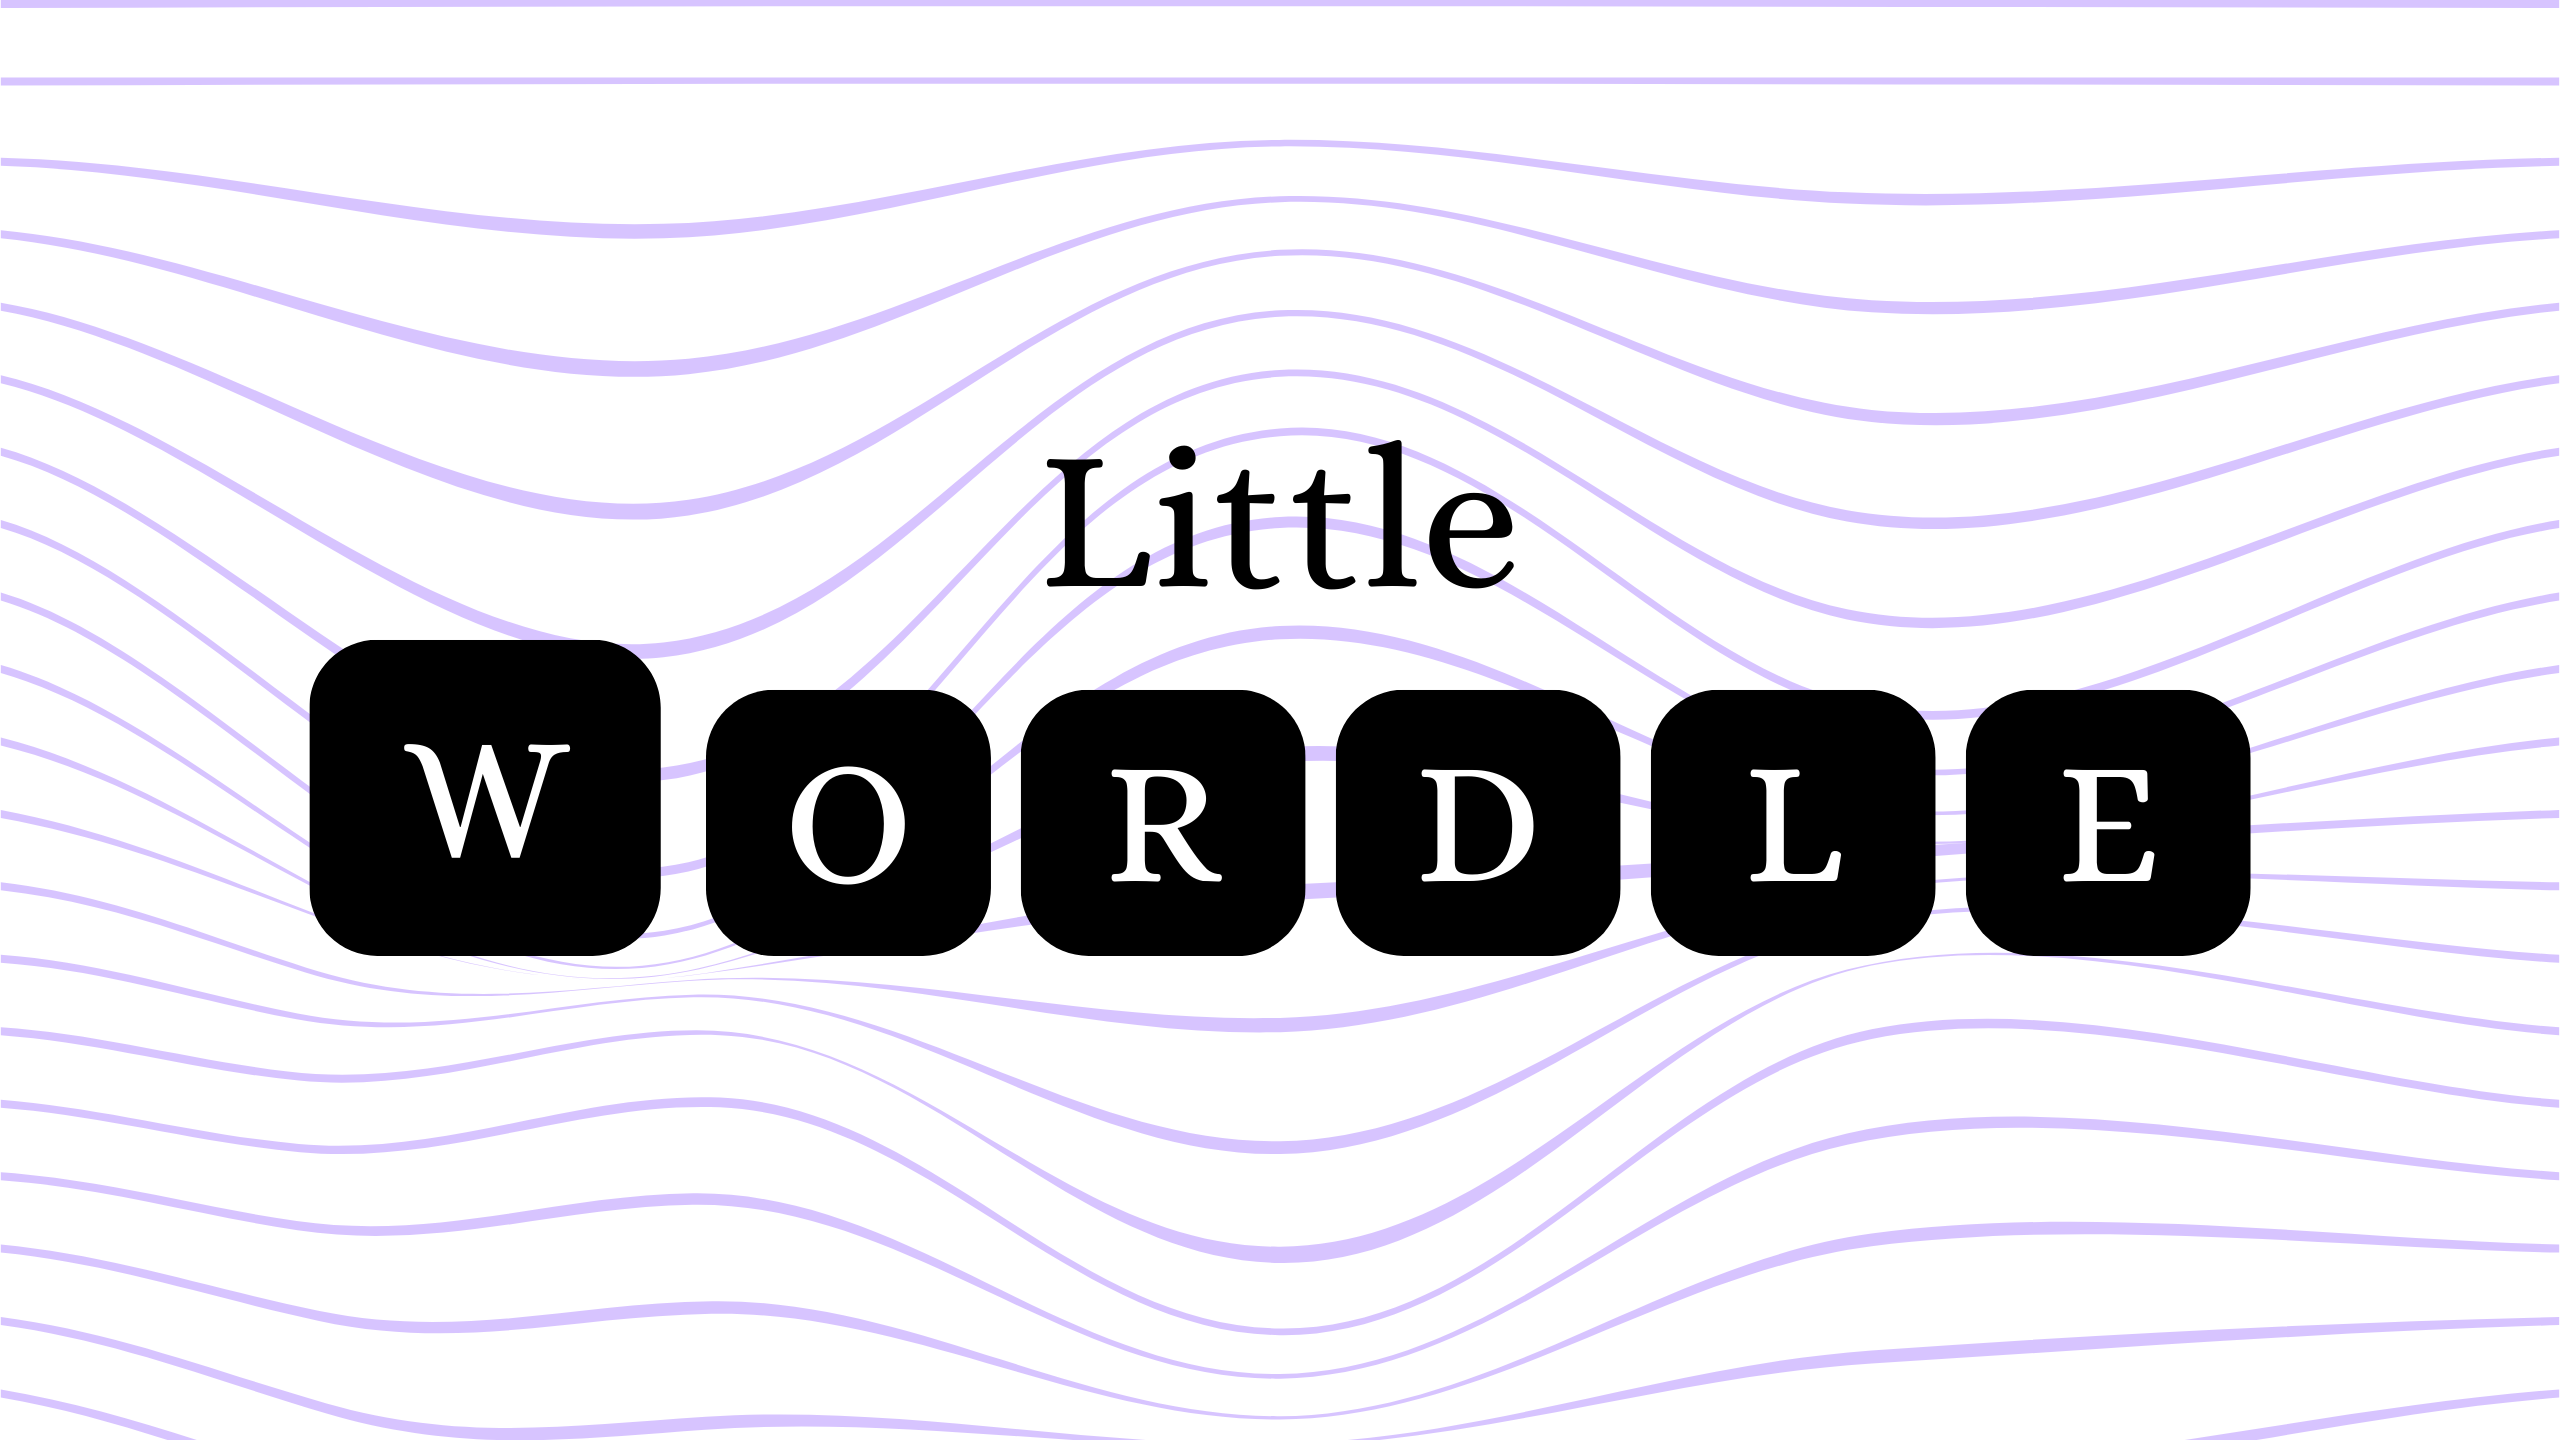
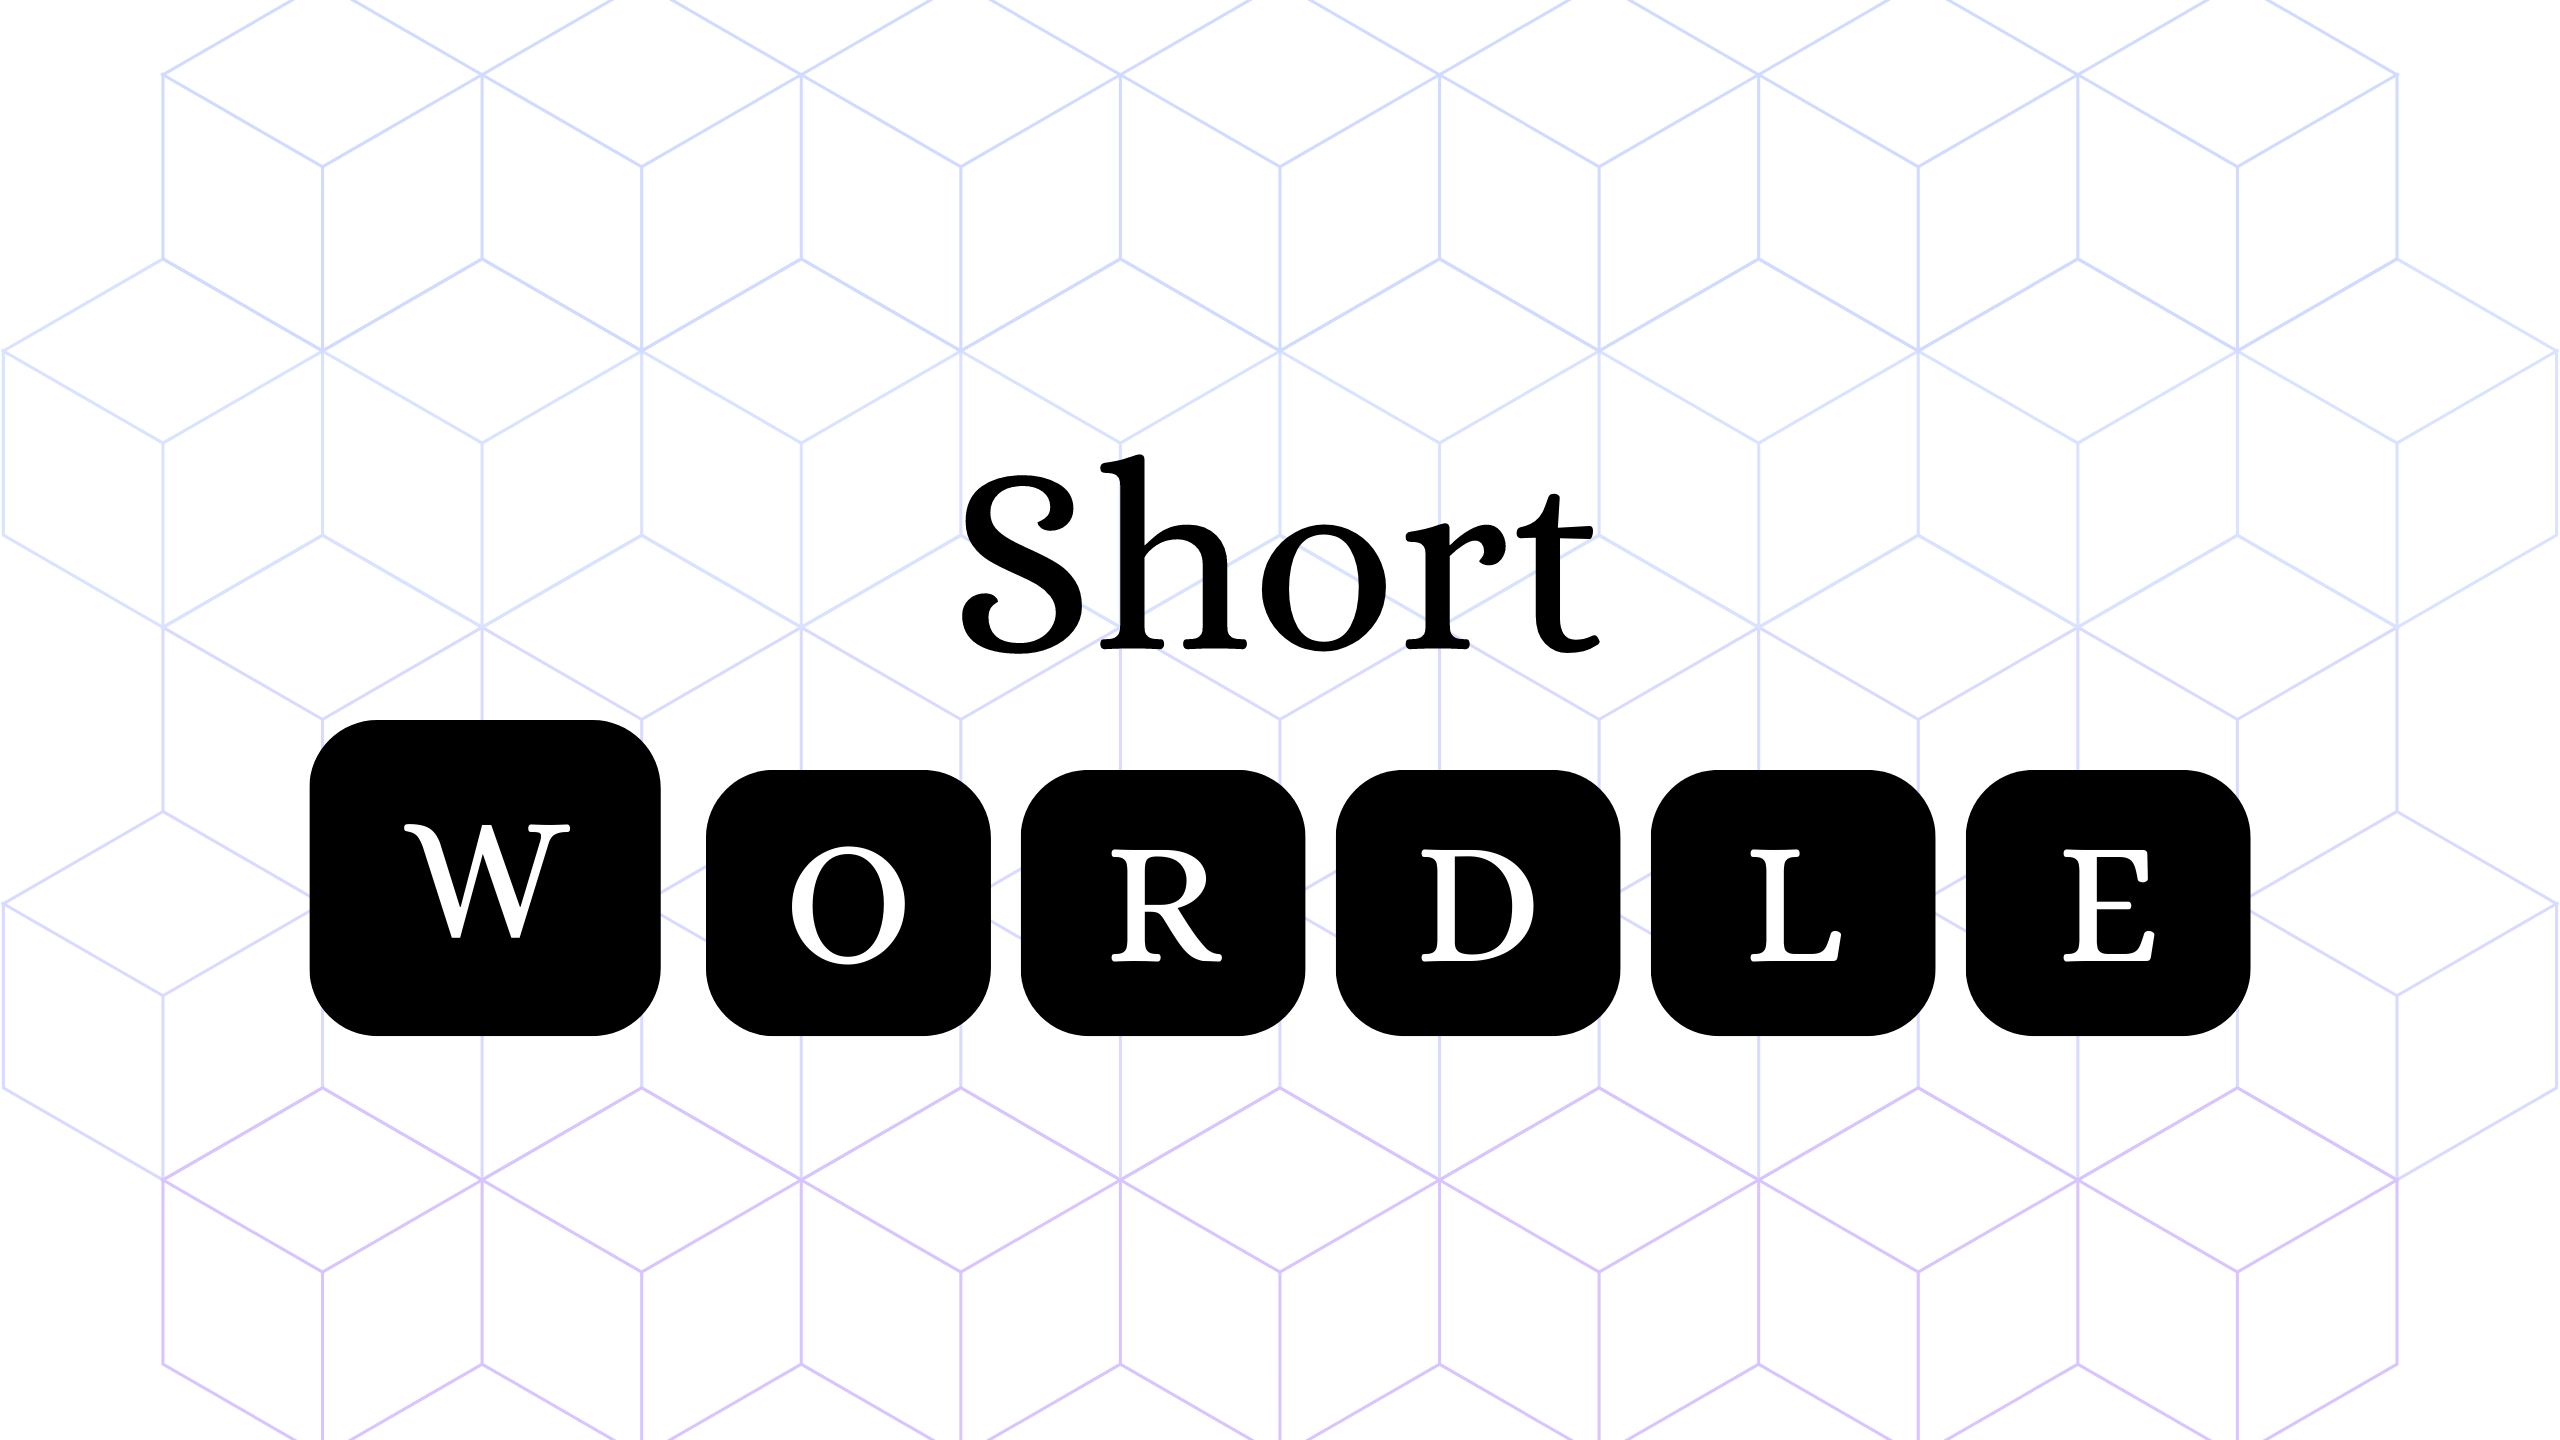
some updates in short wordle

diff --git a/components/Little-wordle/ClueBox.js b/components/Little-wordle/ClueBox.js
@@ -1,14 +1,91 @@
-// import roundsData from "./wordleData"
+import { useState } from "react";
+import roundsData from "./wordleData";
 
-// export default function ClueBox() {
-//   return (
-//     <main className="flex flex-wrap w-52 bg-blue-500">
-//         <div>Visual Clue</div>
-//         <div>How long is the word</div>
-//         <div>What's the first letter</div>
-//         <div>What's it rhyme with?</div>
-//         <div>Eliminate all useless letter</div>
-//         <div>What's the last letter?</div>
-//     </main>
-//   )
-// }
+const Clue = ({ toggleClueVisibility, clues }) => {
+  return (
+    <main className="flex flex-wrap gap-3 w-72 common-box border-2 mt-2">
+      {clues.map((clue, index) => (
+        <div
+          className="common-box border-2 w-full text-center text-xs cursor-pointer"
+          key={index}
+          onClick={() => toggleClueVisibility(index)}
+        >
+          {clue}
+        </div>
+      ))}
+    </main>
+  );
+};
+
+const ClueAnswer = ({ toggleClueVisibility, answers, selectedClueIndex }) => {
+  return (
+    <div className="flex flex-wrap text-center common-box mt-2 border-2 border-green-600 text-sm">
+      <p>{answers[selectedClueIndex]}</p>
+    </div>
+  );
+};
+
+export default function ClueBox({ round }) {
+  const [isDivVisible, setDivVisible] = useState(false);
+  const [isClueVisible, setClueVisible] = useState(false);
+  const [selectedClueIndex, setSelectedClueIndex] = useState(0);
+
+  const toggleDivVisibility = () => {
+    setDivVisible(!isDivVisible);
+    setClueVisible(false);
+  };
+
+  const toggleClueVisibility = (index) => {
+    setSelectedClueIndex(index);
+    setClueVisible(true);
+  };
+
+  const getClueAnswer = (index) => {
+    const currentRound = roundsData[round];
+    if (currentRound) {
+      switch (index) {
+        case 0:
+          return `The First Letter is "${currentRound.answer.charAt(0)}"`;
+        case 1:
+          return `The Last Letter is "${currentRound.answer.charAt(
+            currentRound.answer.length - 1
+          )}"`;
+        default:
+          return "More hints coming";
+      }
+    } else {
+      return "";
+    }
+  };
+
+  return (
+    <div className="static lg:absolute top-32 flex flex-col right-0 lg:items-end mr-2 pb-10">
+      <button className="common-box custom-shadow lg:float-right" onClick={toggleDivVisibility}>
+        {isDivVisible ? "❌" : "Clue"}
+      </button>
+      {isDivVisible && (
+        <>
+          <Clue
+            toggleClueVisibility={toggleClueVisibility}
+            clues={[
+              "What's the first letter",
+              "What's the last letter?",
+              "More hints coming"
+            ]}
+          />
+        </>
+      )}
+      {isClueVisible && (
+        <ClueAnswer
+          toggleClueVisibility={() => setClueVisible(false)}
+          answers={[
+            getClueAnswer(0),
+            getClueAnswer(1),
+            getClueAnswer(2),
+          ]}
+          selectedClueIndex={selectedClueIndex}
+        />
+      )}
+    </div>
+  );
+}

diff --git a/components/Little-wordle/WordGame.js b/components/Little-wordle/WordGame.js
@@ -4,7 +4,7 @@ import React, { useState, useEffect } from "react";
 import wordle from "../../public/assets/wordle.png";
 import Image from "next/image";
 import roundsData from "./wordleData";
-// import ClueBox from "./ClueBox";
+import ClueBox from "./ClueBox";
 
 const WordGame = () => {
   const [selectedLetters, setSelectedLetters] = useState([]);
@@ -115,21 +115,22 @@ const WordGame = () => {
       )}
       <div className="flex gap-4">
         <button
-          className="mt-4 bg-white font-bold py-2 px-4 rounded custom-shadow"
+          className="common-box custom-shadow"
           onClick={handleClearClick}
         >
           Clear
         </button>
         <button
-          className="mt-4 bg-white font-bold py-2 px-4 rounded custom-shadow"
+          className="common-box custom-shadow"
           onClick={handleNextRoundClick}
         >
           Next Round
         </button>
       </div>
-      <div className="mt-4">
+      <div className="common-box custom-shadow">
         <strong>Round:</strong> {round}
       </div>
+      <ClueBox round={round} />
     </section>
   );
 };

diff --git a/app/What-Can-Elon-Musk-Do/page.jsx b/app/What-Can-Elon-Musk-Do/page.jsx
@@ -1,6 +1,11 @@
 import Logo from "@/components/Logo";
 import ElonContainer from "@/components/What-Can-Elon-Musk-Do/ElonContainer";
 
+export const metadata = {
+  title: "What Can Elon Musk Do ?",
+  description: "Explore the wild and crazy possibilities of Elon Musk's $174 billion fortune",
+};
+
 export default function WhatCanElonMuskDo() {
   return (
     <section>

diff --git a/styles/globals.css b/styles/globals.css
@@ -289,3 +289,11 @@
 .custom-shadow{
   box-shadow: rgba(28, 28, 28, 0.591) 5px 5px;
 }
+
+.singleClue{
+  @apply w-40 h-12 flex justify-center items-center text-center bg-slate-100 p-2 text-xs border-2 border-neutral-700
+}
+
+.common-box{
+  @apply mt-4 bg-white font-bold py-2 px-4 rounded
+}

diff --git a/app/short-wordle/page.jsx b/app/short-wordle/page.jsx
@@ -1,6 +1,10 @@
 import WordGame from "@components/Little-wordle/WordGame";
 import Logo from "@components/Logo";
 
+export const metadata = {
+  title: "A Short Wordle",
+  description: "Solve Short & Sweet Wordles",
+};
 
 export default function LittleWordle() {
   return (
